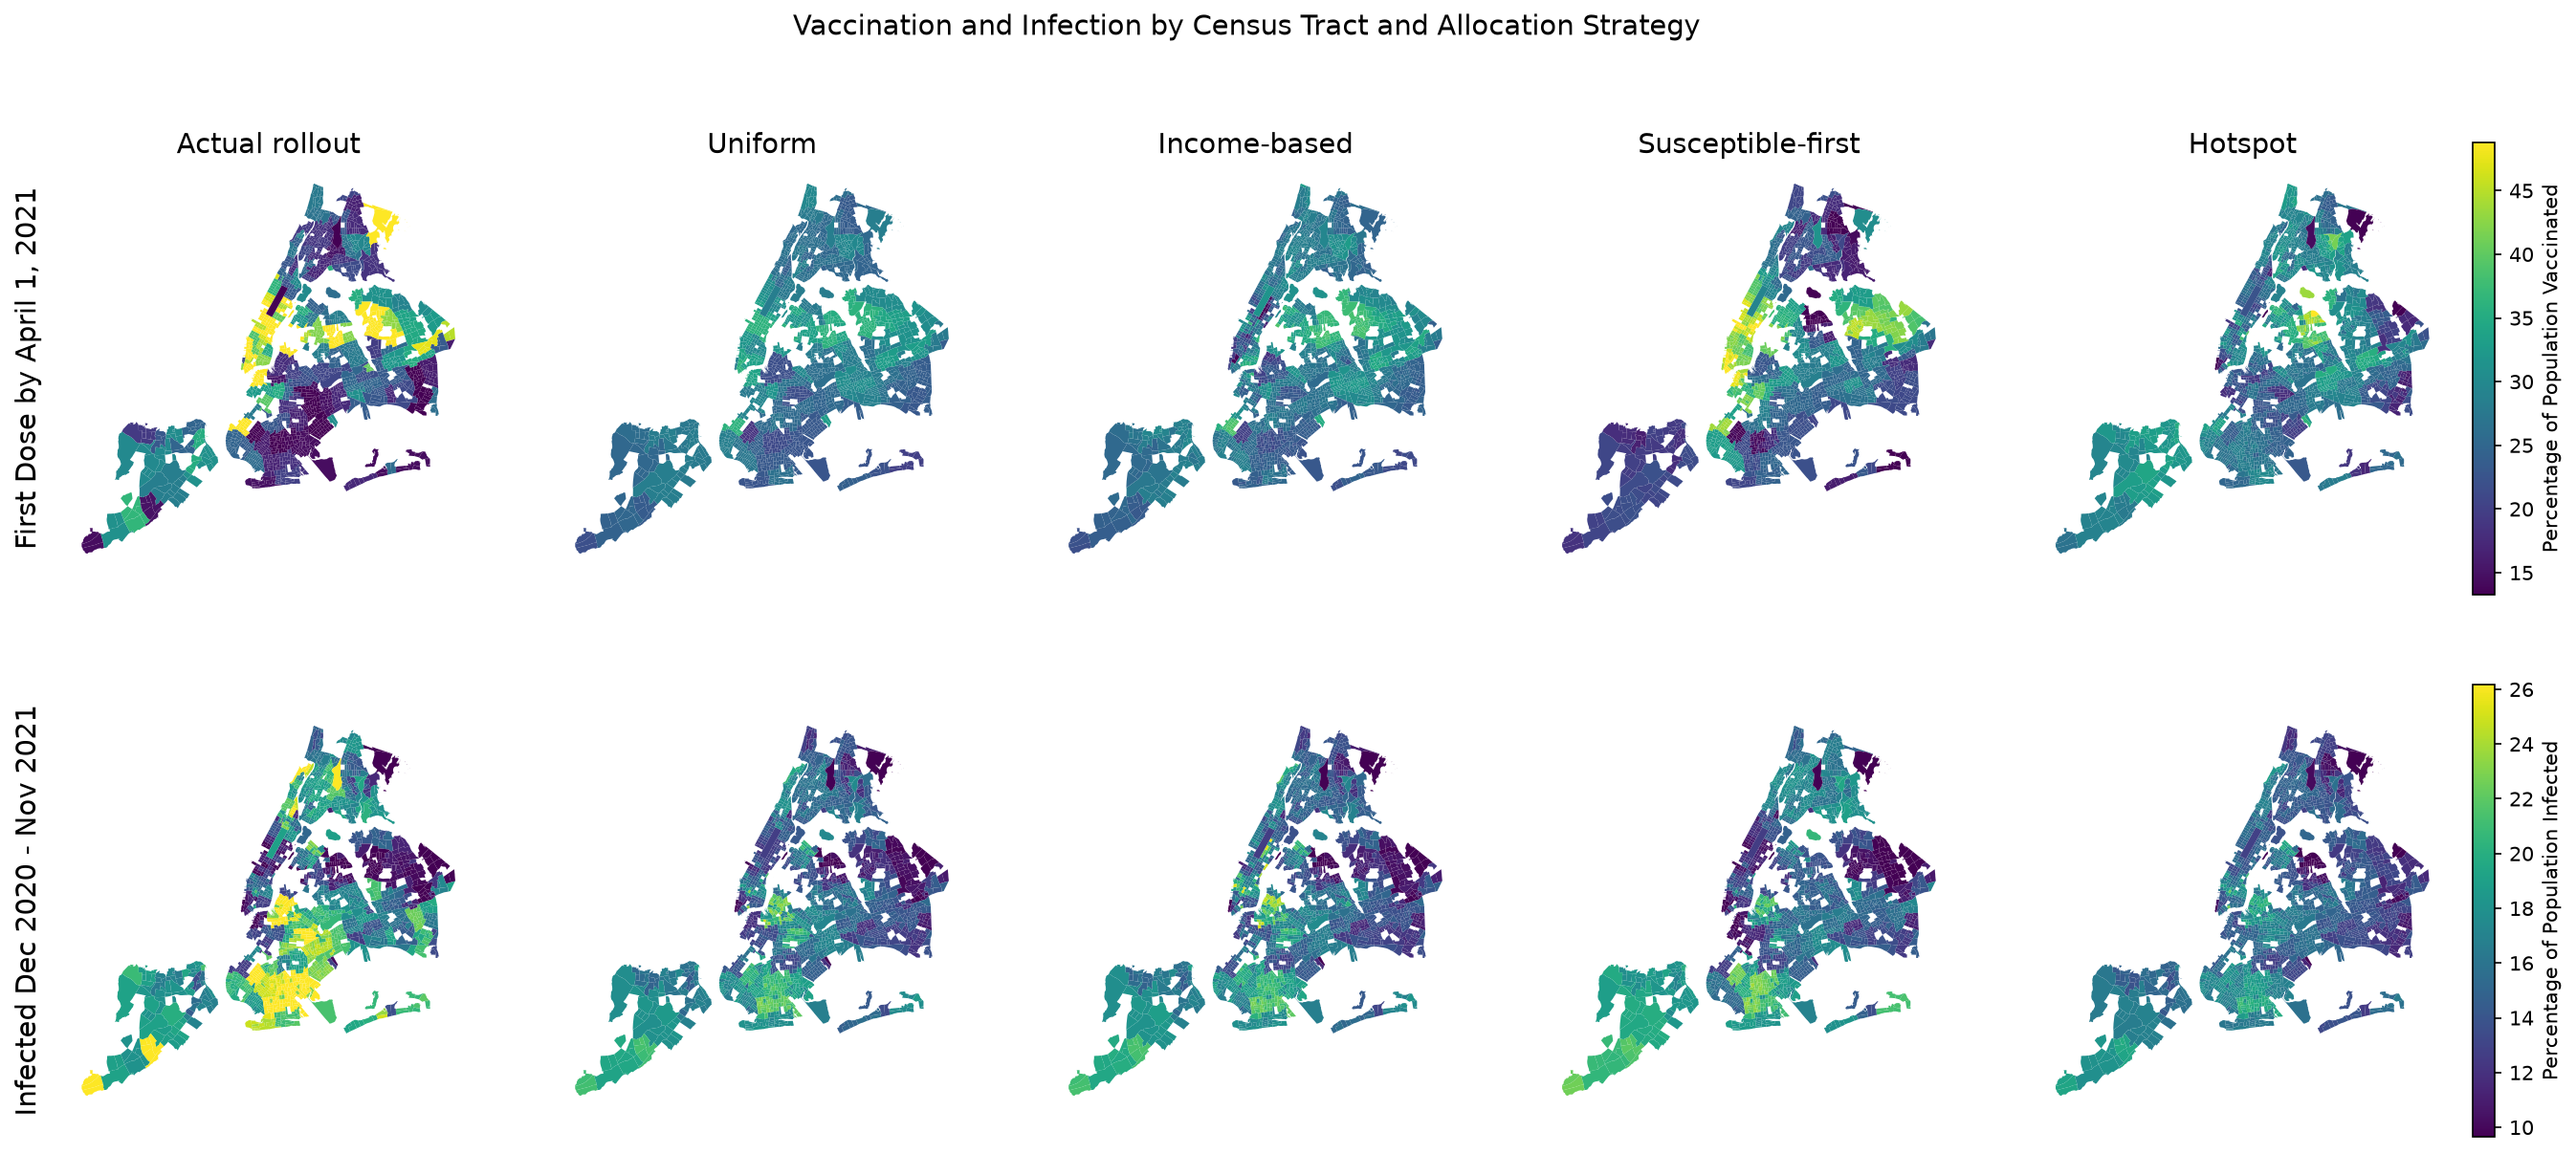
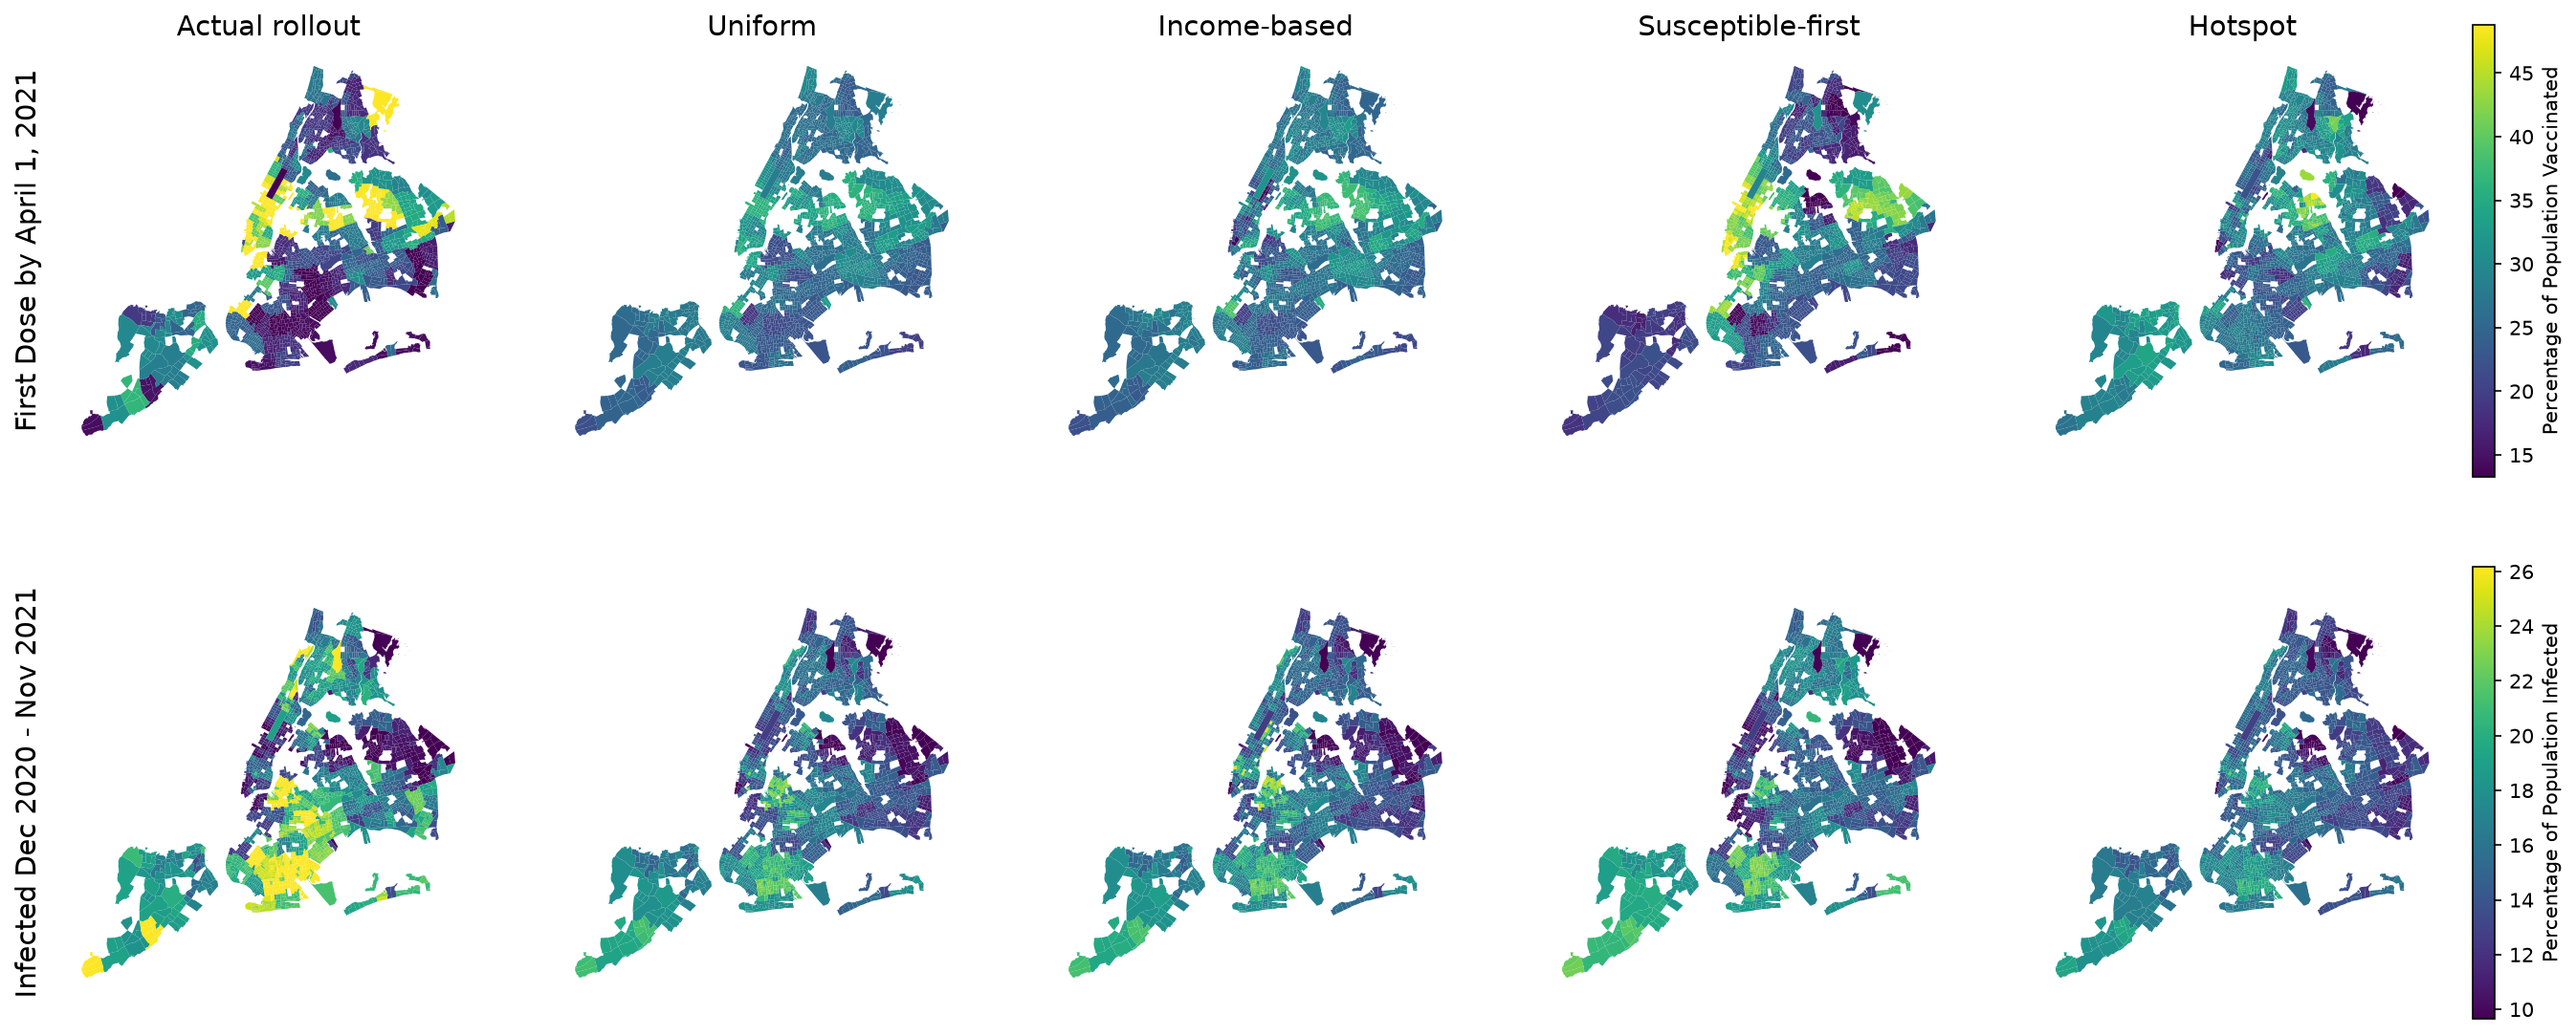
Remove titles from the paper figures

diff --git a/realistic_model/paper_figs.py b/realistic_model/paper_figs.py
@@ -30,14 +30,13 @@ for name, alloc in [('Actual rollout', actualAllocation), ('Uniform', uniformAll
   print(f'{name:17s} infections during rollout {(yEnd[8] - yStart[8]).sum():.0f}, recovered at end {(yEnd[6] + yEnd[7]).sum():.0f}, '
         f'vaccinated at end {(yEnd[1] + yEnd[3] + yEnd[5] + yEnd[7]).sum():.0f}')
 
-TITLE, LABEL = 14, 14
+LABEL = 14
 
 # model fit: reported cases, citywide and by borough
 rep = saved['onsets'] * np.array([rho(dd, rhoEarly) for dd in range(END)])[:, None]
 fig, ax = plt.subplots(figsize=(10, 5))
 ax.plot(dates[:END], citySmooth, label='Observed (7-day average)')
 ax.plot(dates[:END], rep.sum(1), label='Model')
-ax.set_title('Reported COVID-19 Cases in NYC: Model vs Observed', fontsize=TITLE)
 ax.set_xlabel('Date', fontsize=LABEL); ax.set_ylabel('Reported Cases per Day', fontsize=LABEL)
 ax.grid(True); ax.legend()
 fig.tight_layout(); fig.savefig(f'{OUT}/model_fit.png', dpi=150); plt.close(fig)
@@ -49,7 +48,6 @@ for ax, b in zip(axes, BOROS):
   ax.plot(dates[:END], rep[:, boro == b].sum(1) / n, label='Model')
   ax.set_title(b, fontsize=12); ax.grid(True)
 axes[0].legend(); axes[2].set_ylabel('Reported Cases per Day per 100,000', fontsize=LABEL); axes[-1].set_xlabel('Date', fontsize=LABEL)
-fig.suptitle('Reported COVID-19 Cases by Borough: Model vs Observed', fontsize=TITLE)
 fig.tight_layout(); fig.savefig(f'{OUT}/model_fit_borough.png', dpi=150); plt.close(fig)
 
 # per-strategy figures first, then the combined ones; all share one y-axis (compartments) and one color scale per map
@@ -57,25 +55,22 @@ SLUG = {name: name.lower().replace(' ', '_').replace('-', '_') for name in res}
 SERIES = [('Susceptible', lambda T: T[:, 0]), ('Exposed', lambda T: T[:, 2] + T[:, 3]), ('Infected', lambda T: T[:, 4] + T[:, 5]),
           ('Recovered', lambda T: T[:, 6] + T[:, 7]), ('Vaccinated, never infected', lambda T: T[:, 1])]
 YMAX = 1.05 * max(f(res[k]['totals'][VSTART:] / 1e6).max() for k in res for _, f in SERIES)   # line plots cover the rollout only
-ROWS = [('vaxMid', 'First Dose by April 1, 2021', 'Percentage of Population Vaccinated',
-         'Percentage of People with a First Dose by Tract (April 1, 2021)', 'new_vaccinated_apr2021'),
-        ('infRollout', 'Infected Dec 2020 - Nov 2021', 'Percentage of Population Infected',
-         'Percentage of People Infected During the Rollout by Tract (Dec 2020 - Nov 2021)', 'new_infected_rollout')]
+ROWS = [('vaxMid', 'First Dose by April 1, 2021', 'Percentage of Population Vaccinated', 'new_vaccinated_apr2021'),
+        ('infRollout', 'Infected Dec 2020 - Nov 2021', 'Percentage of Population Infected', 'new_infected_rollout')]
 LIMITS = {key: np.percentile(np.concatenate([100 * res[k][key] for k in res]), [2, 98]) for key, *_ in ROWS}
 
 for name in res:
   T = res[name]['totals'] / 1e6
   fig, ax = plt.subplots(figsize=(10, 6))
   for label, f in SERIES: ax.plot(dates[VSTART:], f(T)[VSTART:], label=label)
-  ax.set_title(f'SEIRV Model Simulation - {name}', fontsize=TITLE)
   ax.set_xlabel('Date', fontsize=LABEL); ax.set_ylabel('Number of People (millions)', fontsize=LABEL)
   ax.set_xlim(dates[VSTART], dates[-1]); ax.set_ylim(0, YMAX); ax.grid(True); ax.legend()
   fig.tight_layout(); fig.savefig(f'{OUT}/new_seirv_{SLUG[name]}.png', dpi=150); plt.close(fig)
-  for key, _, cbar, title, fname in ROWS:
+  for key, _, cbar, fname in ROWS:
     g = geo.copy(); g['v'] = 100 * res[name][key]
     fig, ax = plt.subplots(figsize=(8, 7))
     g.plot(column='v', cmap='viridis', vmin=LIMITS[key][0], vmax=LIMITS[key][1], ax=ax, linewidth=0, legend=True, legend_kwds={'label': cbar})
-    ax.set_axis_off(); ax.set_title(f'{title}\n{name}', fontsize=12)
+    ax.set_axis_off()
     fig.savefig(f'{OUT}/{fname}_{SLUG[name]}.png', dpi=150, bbox_inches='tight'); plt.close(fig)
 
 # citywide compartments over time, one panel per strategy
@@ -87,7 +82,7 @@ for ax, name in zip(axes, res):
   ax.xaxis.set_major_locator(matplotlib.dates.MonthLocator(bymonth=[1, 4, 7, 10]))
   ax.xaxis.set_major_formatter(matplotlib.dates.DateFormatter('%b\n%Y'))
 axes[0].set_ylabel('Number of People (millions)', fontsize=LABEL)
-fig.supxlabel('Date', fontsize=LABEL); fig.suptitle('SEIRV Model Simulation by Allocation Strategy', fontsize=TITLE)
+fig.supxlabel('Date', fontsize=LABEL)
 fig.legend(*axes[0].get_legend_handles_labels(), loc='lower center', ncol=5, bbox_to_anchor=(0.5, -0.06))
 fig.tight_layout(); fig.savefig(f'{OUT}/seirv_strategies.png', dpi=150, bbox_inches='tight'); plt.close(fig)
 
@@ -101,7 +96,6 @@ for r, (key, rowTitle, cbar, *_) in enumerate(ROWS):
     ax.set_axis_off(); ax.set_title(name if r == 0 else '', fontsize=LABEL)
   axes[r, 0].text(-0.05, 0.5, rowTitle, transform=axes[r, 0].transAxes, rotation=90, ha='right', va='center', fontsize=LABEL)
   fig.colorbar(plt.cm.ScalarMappable(matplotlib.colors.Normalize(vmin, vmax), 'viridis'), ax=axes[r], fraction=0.015, pad=0.01, label=cbar)
-fig.suptitle('Vaccination and Infection by Census Tract and Allocation Strategy', fontsize=TITLE)
 fig.savefig(f'{OUT}/maps_strategies.png', dpi=150, bbox_inches='tight'); plt.close(fig)
 
 # strategy comparison: share of each income quartile infected during the rollout
@@ -113,7 +107,6 @@ infQ = np.array([[100 * scen[name]['onsets'][VSTART:].sum(0)[q == j].sum() / pop
 for j in range(4):
   ax.bar(x + (j - 1.5) * w, infQ[:, j], w, label=QN[j], color=plt.cm.Blues(0.35 + 0.2 * j))
 ax.set_xticks(x, names)
-ax.set_title('Percentage of People Infected During the Rollout by Income Quartile', fontsize=TITLE)
 ax.set_xlabel('Allocation Strategy', fontsize=LABEL); ax.set_ylabel('Percentage Infected', fontsize=LABEL)
 ax.set_ylim(0, 25); ax.grid(True, axis='y'); ax.set_axisbelow(True)
 ax.legend(title='Census Tract Income Quartile', ncol=4, loc='upper center')
@@ -121,7 +114,6 @@ fig.tight_layout(); fig.savefig(f'{OUT}/strategies_by_quartile.png', dpi=150); p
 
 fig, ax = plt.subplots(figsize=(10, 5)); d = dates[1:]
 for name in names: ax.plot(d[VSTART - 30:], scen[name]['onsets'][VSTART - 30:].sum(1), label=name)
-ax.set_title('New Infections per Day During the Rollout by Strategy', fontsize=TITLE)
 ax.set_xlabel('Date', fontsize=LABEL); ax.set_ylabel('New Infections per Day', fontsize=LABEL)
 ax.grid(True); ax.legend()
 fig.tight_layout(); fig.savefig(f'{OUT}/strategies_over_time.png', dpi=150); plt.close(fig)
